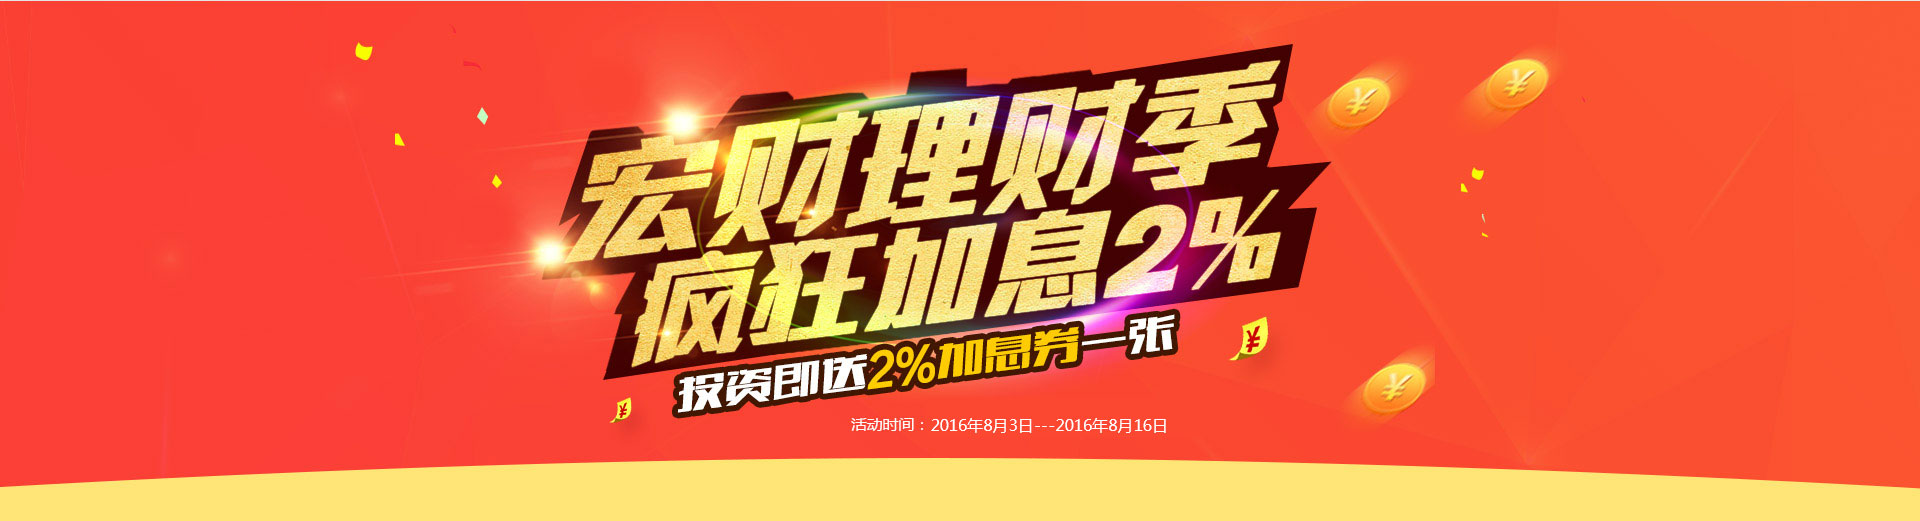
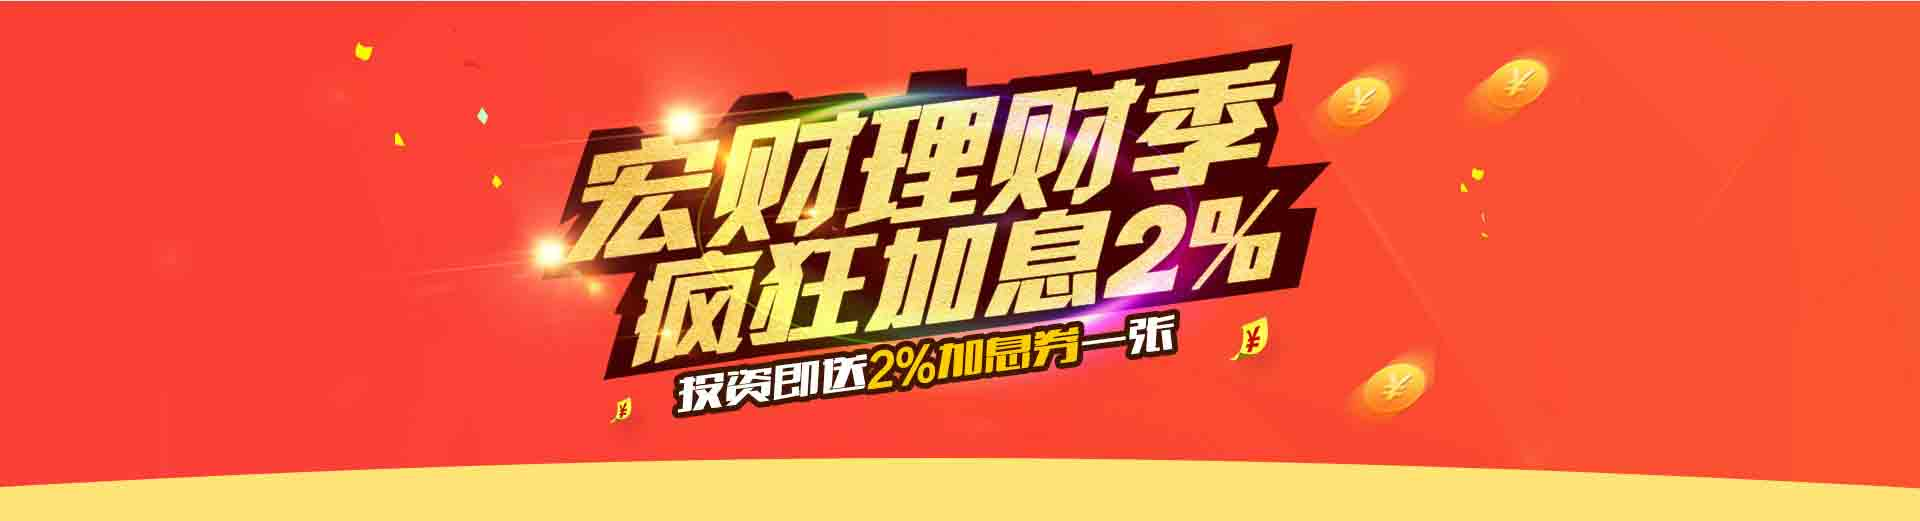
fix(coupon-landing) 送加息券活动时间修改

diff --git a/app/views/activity/coupon-landing.html b/app/views/activity/coupon-landing.html
@@ -3,7 +3,9 @@
   <!-- 投资返现部分 -->
   <div class="send-money">
     <!-- //顶部图片 -->
-    <div class="col-md-12 text-center send-money-header1 bg-red" width="1920" height="521px"></div>
+    <div class="col-md-12 text-center send-money-header1 bg-red" width="1920" height="521px">
+      <p class="ft-white ft-16">活动时间：2016年08月17日——2016年09月16日</p>
+    </div>
     <!-- 加息券部分 -->
     <div class="rate-increase">
         <!-- 版心 -->
@@ -20,8 +22,8 @@
         <div class="rate-example">
           <div class="rate-example-words ft-18 margin-b-30">
             <p class="ft-bold ft-greyc64">举个栗子：</p>
-            <p class="ft">王先生在7月5日投资500元，获得一张2%加息券</p>
-            <p>王先生在7月6日，使用加息券投资30天项目3万元，</p>
+            <p class="ft">王先生在8月17日投资500元，获得一张2%加息券</p>
+            <p>王先生在8月18日，使用加息券投资30天项目3万元，</p>
             <p class="ft-red10 ftw-b">本次投资王先生还将获得：246.58元</p>
           </div>
           <div class="rate-example-img">

diff --git a/app/styles/activity-new.less b/app/styles/activity-new.less
@@ -20,6 +20,10 @@
       height: 520px;
       margin: 0 auto;
       background: url("/images/activity/top31.jpg") no-repeat center center;
+      p {
+        margin-top: 414px;
+        margin-left: 145px;
+      }
     }
     .send-money-connent {
       .send-money-01{
